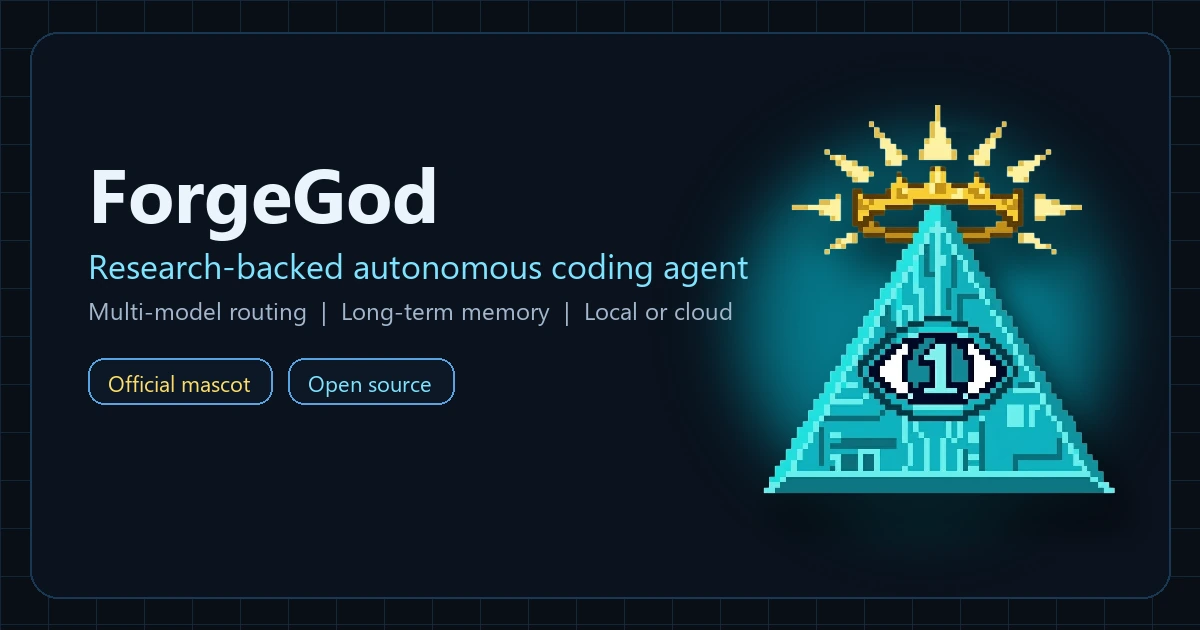
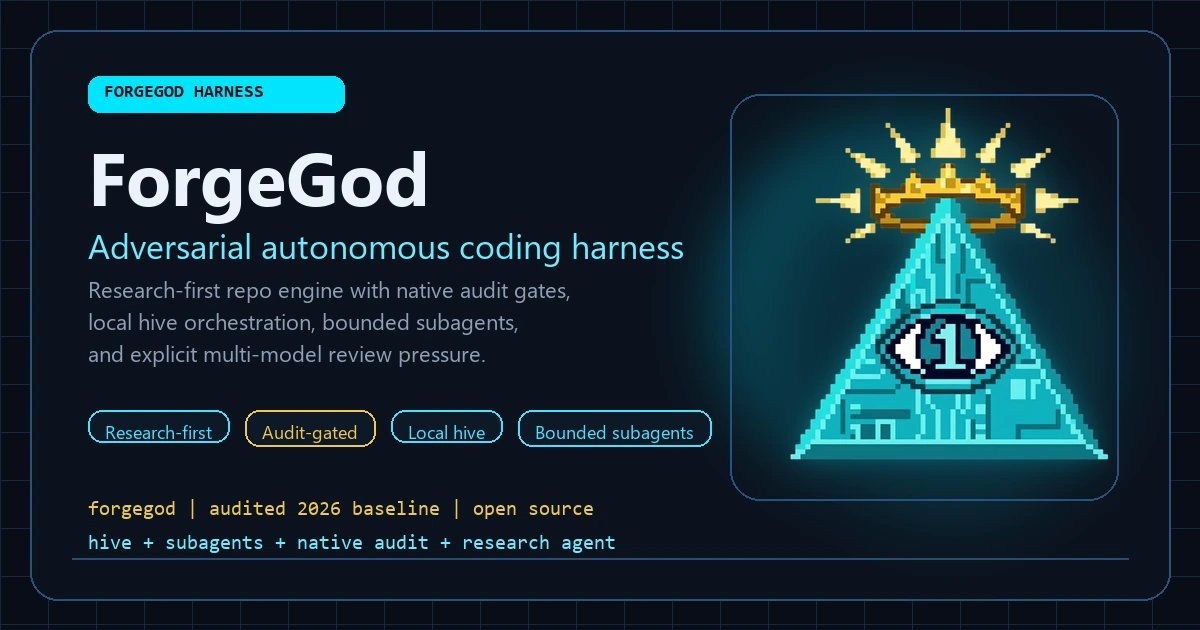
feat(site): spotlight hive and refresh OG card

diff --git a/docs/index.html b/docs/index.html
@@ -3,25 +3,25 @@
 <head>
 <meta charset="UTF-8">
 <meta name="viewport" content="width=device-width, initial-scale=1.0">
-<title>ForgeGod - Research-Backed Autonomous Coding Agent</title>
-<meta name="description" content="Open-source autonomous coding agent with research-first workflows, native audit preflight, bounded subagents, local hive orchestration, 5-tier memory, optional Obsidian vault projection, and $0 local mode. Audited against a verified 2026 baseline.">
+<title>ForgeGod - Research-Backed Adversarial Coding Harness</title>
+<meta name="description" content="Open-source autonomous coding harness with research-first workflows, native audit preflight, bounded subagents, local hive orchestration, adversarial review, 5-tier memory, optional Obsidian vault projection, and $0 local mode. Audited against a verified 2026 baseline.">
 <meta name="keywords" content="coding agent, autonomous coding, AI coding tool, open source, multi-model, Ollama, MiniMax, OpenAI, web research, SOTA, adversarial review, cognitive memory, self-improving, budget control">
 <meta name="robots" content="index, follow">
 <link rel="canonical" href="https://forgegod.com">
-<meta property="og:title" content="ForgeGod - Research-Backed Autonomous Coding Agent">
-<meta property="og:description" content="Research-backed autonomous coding agent with multi-model routing, native audit preflight, bounded subagents, local hive orchestration, 5-tier memory, optional Obsidian vault projection, and $0 local mode. Audited, tested, and open source.">
+<meta property="og:title" content="ForgeGod - Adversarial Autonomous Coding Harness">
+<meta property="og:description" content="Research-first repo engine with native audit gate, bounded subagents, local hive orchestration, adversarial review, and multi-model routing. Audited, tested, and open source.">
 <meta property="og:image" content="https://forgegod.com/og-image.webp">
 <meta property="og:image:width" content="1200">
 <meta property="og:image:height" content="630">
-<meta property="og:image:alt" content="ForgeGod official mascot and autonomous coding agent social card">
+<meta property="og:image:alt" content="ForgeGod social card describing an adversarial autonomous coding harness with hive and subagents">
 <meta property="og:url" content="https://forgegod.com">
 <meta property="og:type" content="website">
 <meta property="og:site_name" content="ForgeGod">
 <meta property="og:locale" content="en_US">
 <meta property="og:locale:alternate" content="es_ES">
 <meta name="twitter:card" content="summary_large_image">
-<meta name="twitter:title" content="ForgeGod - Research-Backed Autonomous Coding Agent">
-<meta name="twitter:description" content="Multi-model autonomous coding agent with research-first workflows, native audit preflight, bounded subagents, local hive orchestration, 5-tier memory, optional Obsidian vault projection, and $0 local mode. Audited and tested against a verified 2026 baseline.">
+<meta name="twitter:title" content="ForgeGod - Adversarial Autonomous Coding Harness">
+<meta name="twitter:description" content="Research-first repo engine with native audit gate, bounded subagents, local hive orchestration, adversarial review, and multi-model routing. Audited, tested, and open source.">
 <meta name="twitter:image" content="https://forgegod.com/og-image.webp">
 <meta name="twitter:image:alt" content="ForgeGod official mascot">
 <link rel="icon" type="image/webp" href="mascot-192.webp">
@@ -36,7 +36,7 @@
   "applicationCategory": "DeveloperApplication",
   "operatingSystem": "Windows, macOS, Linux",
   "offers": { "@type": "Offer", "price": "0", "priceCurrency": "USD" },
-  "description": "Open-source autonomous coding agent with research-first workflows, native audit preflight, bounded subagents, local hive orchestration, 5-tier cognitive memory, optional Obsidian vault projection, and a verified 2026 baseline.",
+  "description": "Open-source autonomous coding harness with research-first workflows, native audit preflight, bounded subagents, local hive orchestration, adversarial review, 5-tier cognitive memory, optional Obsidian vault projection, and a verified 2026 baseline.",
   "url": "https://forgegod.com",
   "downloadUrl": "https://pypi.org/project/forgegod/",
   "softwareVersion": "0.1.0",
@@ -187,6 +187,36 @@ nav .container {
   font-weight: 500;
 }
 .hero-tagline strong { color: var(--cyan); }
+.hero-badges {
+  display: flex;
+  justify-content: center;
+  gap: 0.75rem;
+  flex-wrap: wrap;
+  margin: 0 auto 1.5rem;
+  max-width: 900px;
+}
+.hero-badge {
+  display: inline-flex;
+  align-items: center;
+  gap: 0.4rem;
+  padding: 0.55rem 0.8rem;
+  border-radius: 999px;
+  border: 1px solid var(--surface-border);
+  background: linear-gradient(180deg, rgba(18, 18, 26, 0.88), rgba(18, 18, 26, 0.56));
+  color: var(--text);
+  font-family: var(--font-mono);
+  font-size: 0.72rem;
+  box-shadow: 0 8px 20px rgba(0, 0, 0, 0.22);
+}
+.hero-badge::before {
+  content: '';
+  width: 7px;
+  height: 7px;
+  border-radius: 50%;
+  background: var(--cyan);
+  box-shadow: 0 0 12px rgba(0, 229, 255, 0.5);
+  flex: 0 0 auto;
+}
 .hero-cta {
   display: inline-flex; align-items: center; gap: 0.5rem;
   font-family: var(--font-mono); font-size: 0.95rem;
@@ -1167,6 +1197,11 @@ footer a { color: var(--cyan); }
     padding: 1rem;
   }
   .stat { display: block; }
+  .hero-badge {
+    width: 100%;
+    justify-content: center;
+    font-size: 0.68rem;
+  }
   .results-tier { padding: 1.3rem 1rem; }
   .hero-cta {
     font-size: 0.8rem; padding: 0.7rem 1rem;
@@ -1236,8 +1271,14 @@ body::after {
     </picture>
     <h1>FORGEGOD</h1>
     <p class="hero-tagline" data-i18n-html="hero_tagline">
-      A <strong>research-backed</strong> coding harness for serious software work. Current-source grounding, native audit preflight, explicit review, specialist agents, and local or cloud execution.
+      A <strong>research-backed</strong> coding harness for serious software work. Research-first planning, native audit preflight, adversarial review, bounded subagents, and local hive orchestration are built into the runtime.
     </p>
+    <div class="hero-badges">
+      <span class="hero-badge" data-i18n="hero_badge_research">Research-first runtime</span>
+      <span class="hero-badge" data-i18n="hero_badge_audit">Native audit gate</span>
+      <span class="hero-badge" data-i18n="hero_badge_hive">Local hive orchestration</span>
+      <span class="hero-badge" data-i18n="hero_badge_subagents">Bounded subagents</span>
+    </div>
     <div class="hero-cta" onclick="copyInstall()">
       <span class="copy-hint" data-i18n="copy_hint">Click to copy</span>
       <span class="prompt">$</span>
@@ -2111,13 +2152,17 @@ forgegod integrations export-openclaw-skill --output ./dist/openclaw</code>
 // -- i18n Translation System --
 var STRINGS = {
   en: {
-    page_title: "ForgeGod - Research-Backed Autonomous Coding Agent",
-    meta_desc: "Open-source autonomous coding agent with research-first workflows, native audit preflight, bounded subagents, local hive orchestration, 5-tier memory, optional Obsidian vault projection, and $0 local mode.",
+    page_title: "ForgeGod - Research-Backed Adversarial Coding Harness",
+    meta_desc: "Open-source autonomous coding harness with research-first workflows, native audit preflight, bounded subagents, local hive orchestration, adversarial review, 5-tier memory, optional Obsidian vault projection, and $0 local mode.",
     nav_features: "Features",
     nav_results: "Results",
     nav_moats: "Why Us",
     nav_compare: "Compare",
-    hero_tagline: 'A <strong>research-backed</strong> coding harness for serious software work. Current-source grounding, native audit preflight, explicit review, specialist agents, and local or cloud execution.',
+    hero_tagline: 'A <strong>research-backed</strong> coding harness for serious software work. Research-first planning, native audit preflight, adversarial review, bounded subagents, and local hive orchestration are built into the runtime.',
+    hero_badge_research: "Research-first runtime",
+    hero_badge_audit: "Native audit gate",
+    hero_badge_hive: "Local hive orchestration",
+    hero_badge_subagents: "Bounded subagents",
     copy_hint: "Click to copy",
     stat_tools: "Built-in Tools",
     stat_providers: "Provider Families",
@@ -2211,7 +2256,7 @@ var STRINGS = {
     feat_skills_title: "Loadable Skills",
     feat_skills_desc: "Pre-built instruction sets for common tasks \u2014 Django, FastAPI, React, testing, deployment. Load a skill and the agent follows battle-tested patterns instead of improvising.",
     feat_skills_tag: "Reusable expertise",
-    features_subtitle: "Many coding agents still rely on stale model memory or a single unchecked pass. ForgeGod adds current web research, adversarial review, bounded automation, optional human-readable memory projection, and first-party bridges into external chat runtimes.",
+    features_subtitle: "Many coding agents still rely on stale model memory or a single unchecked pass. ForgeGod adds current web research, adversarial review, bounded subagents, local hive orchestration, optional human-readable memory projection, and first-party bridges into external chat runtimes.",
     title_moats: "ENGINEERING MOATS",
     moats_subtitle: "Six engineering decisions that define the current ForgeGod harness.",
     moat_1_title: "Research-Gated Changes",
@@ -2362,13 +2407,17 @@ var STRINGS = {
     footer_mascot: 'Official mascot design by <a href="https://www.linkedin.com/in/matt-mesa/">Matias Mesa</a>'
   },
   es: {
-    page_title: "ForgeGod - Agente de Codigo Autonomo Respaldado por Investigacion",
-    meta_desc: "Agente de codigo autonomo open source con workflows research-first, auditoria nativa preflight, subagentes acotados, hive local, memoria de 5 niveles, proyeccion opcional a Obsidian y modo local $0.",
+    page_title: "ForgeGod - Harness de Codigo Adversarial Research-Backed",
+    meta_desc: "Harness de codigo autonomo open source con workflows research-first, auditoria nativa preflight, subagentes acotados, hive local, review adversarial, memoria de 5 niveles, proyeccion opcional a Obsidian y modo local $0.",
     nav_features: "Características",
     nav_results: "Resultados",
     nav_moats: "Por Qu\u00e9",
     nav_compare: "Comparar",
-    hero_tagline: 'Un harness de codigo <strong>research-backed</strong> para trabajo serio de software. Grounding con fuentes actuales, auditoria nativa preflight, review explicito, agentes especialistas y ejecucion local o cloud.',
+    hero_tagline: 'Un harness de codigo <strong>research-backed</strong> para trabajo serio de software. La planificacion research-first, la auditoria nativa preflight, el review adversarial, los subagentes acotados y el hive local viven dentro del runtime.',
+    hero_badge_research: "Runtime research-first",
+    hero_badge_audit: "Gate nativo de auditoria",
+    hero_badge_hive: "Orquestacion hive local",
+    hero_badge_subagents: "Subagentes acotados",
     copy_hint: "Click para copiar",
     stat_tools: "Herramientas",
     stat_providers: "Familias de proveedores",
@@ -2462,7 +2511,7 @@ var STRINGS = {
     feat_skills_title: "Skills Cargables",
     feat_skills_desc: "Instrucciones pre-armadas para tareas comunes \u2014 Django, FastAPI, React, testing, deploy. Carg\u00e1 un skill y el agente sigue patrones probados en vez de improvisar.",
     feat_skills_tag: "Experiencia reutilizable",
-    features_subtitle: "Muchos agentes de código todavía dependen de memoria desactualizada del modelo o de una sola pasada sin control. ForgeGod agrega investigación web actual, review adversarial, automatización acotada, proyección opcional de memoria legible y puentes de primera clase hacia runtimes externos de chat.",
+    features_subtitle: "Muchos agentes de código todavía dependen de memoria desactualizada del modelo o de una sola pasada sin control. ForgeGod agrega investigación web actual, review adversarial, subagentes acotados, orquestación hive local, proyección opcional de memoria legible y puentes de primera clase hacia runtimes externos de chat.",
     title_moats: "MOATS DE INGENIERÍA",
     moats_subtitle: "Seis decisiones de ingeniería que definen el harness actual de ForgeGod.",
     moat_1_title: "Cambios Guiados por Investigaci\u00f3n",
